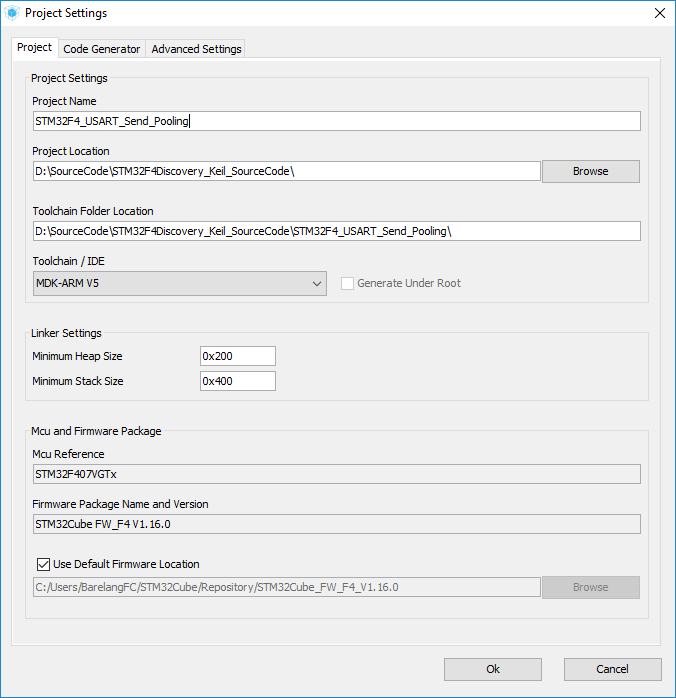
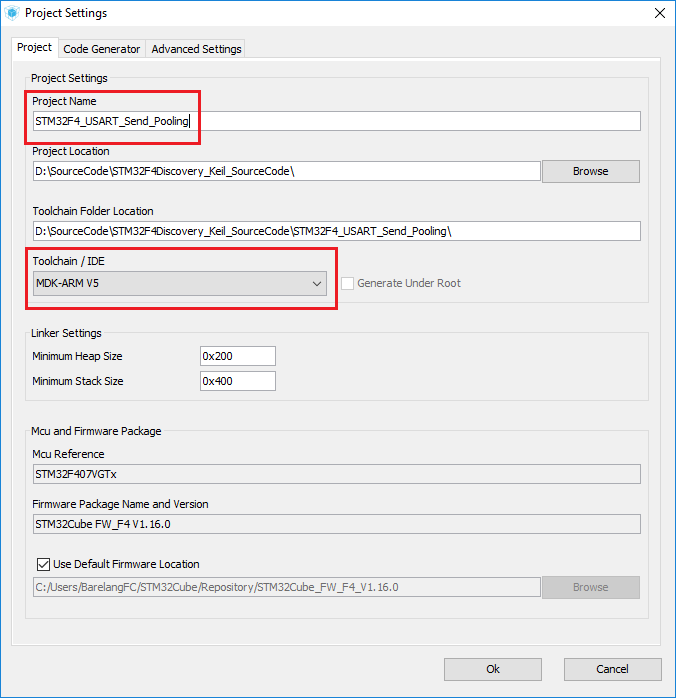
Updates uart/kirim-data.md
Auto commit by GitBook Editor

Changed region(s): [[0.0311, 0.3309, 0.497, 0.4513], [0.0311, 0.1203, 0.3107, 0.2106]]

diff --git a/uart/kirim-data.md b/uart/kirim-data.md
@@ -9,16 +9,19 @@
 3. Lakukan konfigurasi pada menu **Pinout** dengan mengaktifkan peripheral USART2 dengan mode Asynchronous  
    ![](/assets/2017-10-27_083655.png)
 
-4. Lakukan konfigurasi pada menu **Configuration** dengan memilih USART2 pada bagian Connectivity  
+4. Lakukan konfigurasi pada menu **Configuration** dengan memilih USART2 pada bagian **Connectivity**  
    ![](/assets/2017-10-27_083716.png)
 
-5. Pada menu Parameter Setting Anda dapat melakukan pengaturan baudrate, ukuran data bit, parity, stop bit dan parameter komunikasi serial lainnya.  
+5. Pada menu **Parameter Setting** Anda dapat melakukan pengaturan baudrate, ukuran data bit, parity, stop bit dan parameter komunikasi serial lainnya.  
    ![](/assets/2017-10-27_083815.png)
 
-6. Pada menu GPIO Settings rubahlah nama pin pada bagian User Label sesuai dengan nama yang diinginkan. Langkah ini sifatnya tidak wajib, namun dapat memudahkan dalam mengingat nama pin-pin yang digunakan.  
+6. Pada menu **GPIO Settings** rubahlah nama pin pada bagian **User Label** sesuai dengan nama yang diinginkan. Langkah ini sifatnya tidak wajib, namun dapat memudahkan dalam mengingat nama pin-pin yang digunakan.  
    ![](/assets/2017-10-27_103846.png)
 
-7. Jika konfigurasi telah selesai lakukan generate source code dan simpan project Anda. Buka project Anda menggunakan Keil IDE. Kemudian lakukan modifikasi program pada file main.c seperti berikut ini :  
+7. Jika konfigurasi telah selesai lakukan generate source code dan simpan project Anda dengan nama STM32F4\_USART\_Send\_Pooling dengan target IDE MDK-ARM5.  
+   ![](/assets/2017-10-27_084025.png)
+
+8. Buka project Anda menggunakan Keil IDE. Kemudian lakukan modifikasi program pada file main.c seperti berikut ini :  
    Tambahkan header file string.h  
    `#include "string.h`  
    Modifikasi fungsi main seperti berikut ini  
@@ -30,28 +33,23 @@
 
    `char data[] = "Hello World from USART \r\n";`
 
-   `  
-   /* MCU Configuration----------------------------------------------------------*/`
+   `/* MCU Configuration----------------------------------------------------------*/`
 
-   `  
-   /* Reset of all peripherals, Initializes the Flash interface and the Systick. */`
+   `/* Reset of all peripherals, Initializes the Flash interface and the Systick. */`
 
    `HAL_Init();`
 
-   `  
-   /* Configure the system clock */`
+   `/* Configure the system clock */`
 
    `SystemClock_Config();`
 
-   `  
-   /* Initialize all configured peripherals */`
+   `/* Initialize all configured peripherals */`
 
    `MX_GPIO_Init();`
 
    `MX_USART2_UART_Init();`
 
-   `  
-   /* Infinite loop */`
+   `/* Infinite loop */`
 
    `while (1)`
 
@@ -75,6 +73,28 @@
 
    `}`
 
-8. 
+9. Untuk melakukan ujicoba program, hubungkan kabel USB to Serial ke komputer. Kemudian cek Device Manager untuk melihat nama port dari kabel USB to Serial.  
+   ![](/assets/2017-10-27_114200.png)
+
+10. Buka software HTerm pada komputer Anda, kemudian samakan nama port dengan yang tertera pada Device Manager. Pastikan juga konfigurasi baudrate, databit, parity dan stop bit pada HTerm sama dengan yang sudah Anda setting pada saat membuat program sebelumnya \(Lihat langkah 5\). Pada combo box **Newline at** pilih CR+LF , pilihan ini membuat data akan ditampilkan ke bawah setiap ada karakter enter \(CR+LF\).   
+    ![](/assets/2017-10-27_085452.png)
+
+11. Klik tombol Connect, kemudian perhatikan Received Data pada HTerm. Data yang dikirimkan oleh mikrokontroler akan muncul pada kolom ini. Pastikan data yang dikirim oleh mikrokontroler sama dengan yang ditampilkan pada kolom Received Data. Jika data yang muncul tidak sama kemungkinan terdapat kesalahan pada saat melakukan konfigurasi project.  
+    ![](/assets/2017-10-27_091006.png)
+
+12. Anda dapat melihat sinyal-sinyal data yang dikirimkan melalui USART dengan menggunakan USB Logic Analyzer. Hubungkan pin PA2 pada board STM32F4Discovery dengan CH0 pada USB Logic Analyzer.
+
+13. Buka software Saleae Logic, tekan tombol Start untuk mulai mengcapture sinyal. Pada layar akan muncul sinyal digital yang dikirimkan melalui pin transmitter USART \(PA2\).   
+    ![](/assets/2017-10-27_091710.png)
+
+14. Untuk melakukan analisa sinyal digital, pilih menu Analyzer kemudian pilih Async Serial.  
+    ![](/assets/2017-10-27_091749.png)
+
+15.  Lakukan konfigurasi parameter serial sesuai dengan konfigurasi pada project   
+    ![](/assets/2017-10-27_091816.png)
+
+16. Pada bagian atas akan muncul karakter ASCII hasil decode dari sinyal digital yang dikirimkan melalui USART  
+    ![](/assets/2017-10-27_091841.png)
+
 
 
